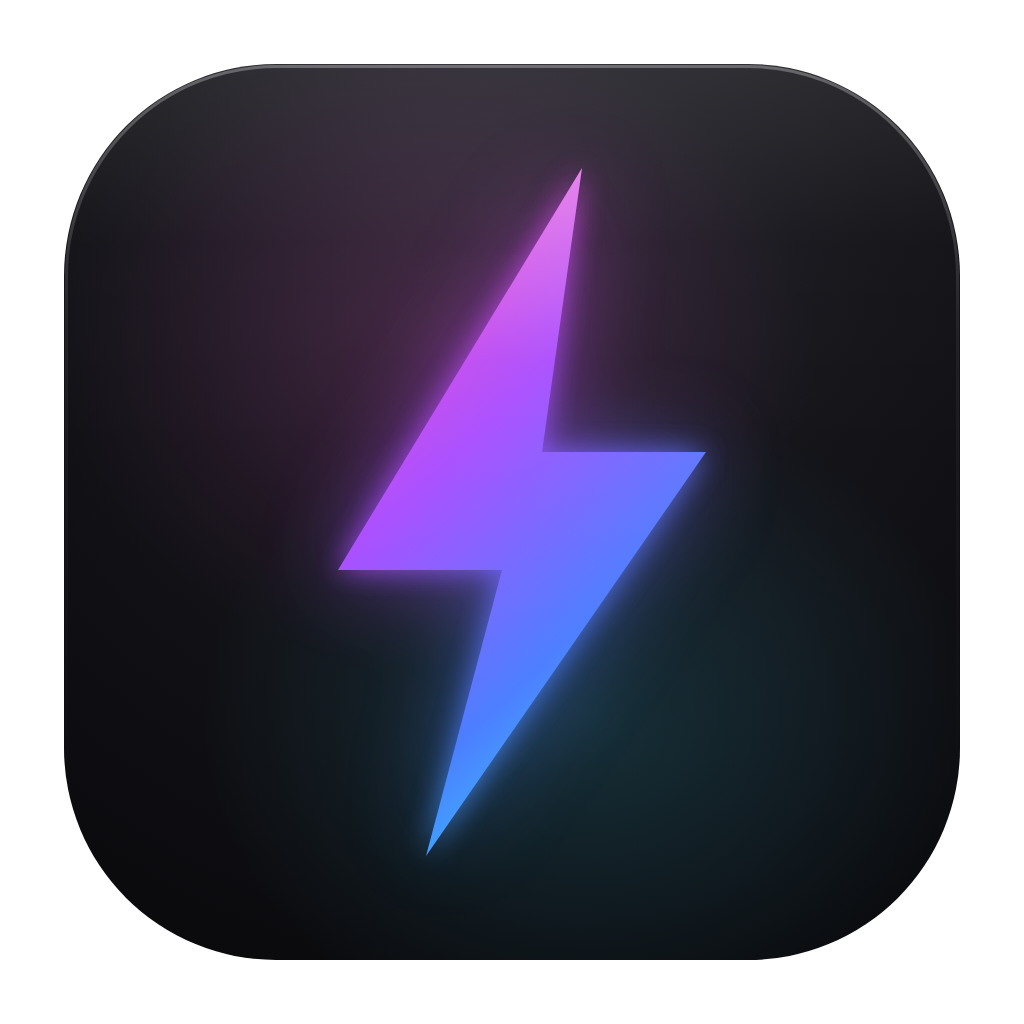
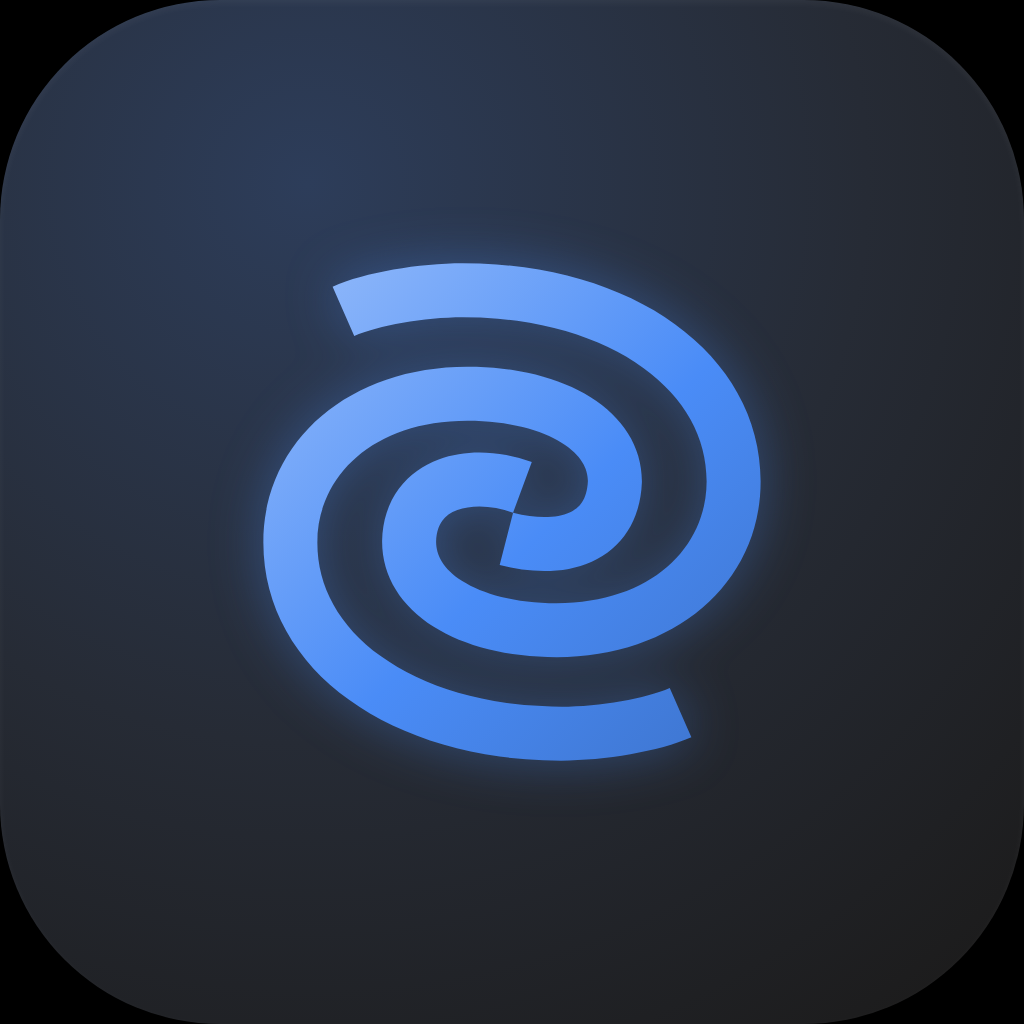
feat: 应用图标换为 galaxy 螺旋并跟随强调色，外观选项精简
- 应用图标由闪电重绘为 galaxy 螺旋（深色强调色淡染圆角底 + 强调色渐变），
  CDP 渲染 SVG 预生成 6 张强调色变体（blue/green/purple/orange/red/cyan）
- 主进程新增 setAppIcon：启动读持久化 accent、store:save 检测变化即对全部窗口
  setIcon，任务栏/窗口图标跟随强调色；打包经 extraResources 携带图标集
- 应用内 logo（设置页关于、关于弹窗入口）改为 .app-logo-dyn 动态渲染，
  颜色随 var(--accent) 变化，不再引用静态 icon.png
- 外观设置仅保留 Light / Dark / System 三项，旧主题值自动归一为 Dark

diff --git a/src/utils/themeUtil.js b/src/utils/themeUtil.js
@@ -5,18 +5,12 @@
 import { normalizePresets } from './headerPresets.js';
 import { normalizeParamPresets } from './paramPresets.js';
 
-/* IDEA 预置主题：Islands 系列 + 经典系列，dark 标记用于明暗图标；
+/* 预置主题仅保留明暗模式三项（其余主题选项已移除，旧值由 normalizeSettings 归一为 dark）；
    system 不绑定具体配色，由系统偏好解析成 dark / light（见 resolveTheme） */
 export const THEMES = [
-  { value: 'system', label: '跟随系统', dark: null },
-  { value: 'islands-dark', label: 'Islands Dark', dark: true },
-  { value: 'islands-light', label: 'Islands Light', dark: false },
-  { value: 'islands-darcula', label: 'Islands Darcula', dark: true },
-  { value: 'high-contrast', label: 'High Contrast', dark: true },
-  { value: 'dark', label: 'Dark', dark: true },
   { value: 'light', label: 'Light', dark: false },
-  { value: 'light-header', label: 'Light with Light Header', dark: false },
-  { value: 'darcula', label: 'Darcula', dark: true }
+  { value: 'dark', label: 'Dark', dark: true },
+  { value: 'system', label: 'System', dark: null }
 ];
 
 /** 系统是否偏好深色；环境不支持 matchMedia 时按深色处理（本产品的默认观感） */

diff --git a/src/components/SettingsPage.jsx b/src/components/SettingsPage.jsx
@@ -287,7 +287,7 @@ export default function SettingsPage({ settings, onChange, onBackup, onRestore, 
             <div className="sp-section-right">
               <div className="sp-item">
                 <div className="sp-about">
-                  <img className="sp-about-logo" src="./icon.png" alt="" />
+                  <span className="sp-about-logo app-logo-dyn"><JbIcon name="galaxy" size={26} /></span>
                   <div>
                     <div className="sp-about-name">ReqMock <span className="sp-about-ver">v{typeof __APP_VERSION__ !== 'undefined' ? __APP_VERSION__ : 'dev'}</span></div>
                     <div className="sp-about-desc">API 调试客户端 + Mock 服务桌面工具</div>

diff --git a/src/components/Modals.jsx b/src/components/Modals.jsx
@@ -462,7 +462,7 @@ export function SettingsModal({ settings, onChange, onBackup, onRestore, onCheck
             {tab === 'about' && (
               <>
                 <div className="about-block-v2">
-                  <img className="about-logo" src="./icon.png" alt="" />
+                  <span className="about-logo app-logo-dyn"><JbIcon name="galaxy" size={22} /></span>
                   <div className="about-meta">
                     <div className="about-name">ReqMock <span className="about-version">v{typeof __APP_VERSION__ !== 'undefined' ? __APP_VERSION__ : 'dev'}</span></div>
                     <div className="about-desc">API 调试客户端 + Mock 服务桌面工具</div>

diff --git a/src/styles.css b/src/styles.css
@@ -5991,6 +5991,13 @@ body.resizing { user-select: none; cursor: col-resize; }
 
 .about-logo { width: 34px; height: 34px; border-radius: var(--radius-m); flex-shrink: 0; }
 
+/* 应用 logo 动态渲染（galaxy 螺旋）：颜色跟随强调色，底色为强调色淡混 */
+.app-logo-dyn {
+  display: inline-flex; align-items: center; justify-content: center;
+  color: var(--accent);
+  background: color-mix(in srgb, var(--accent) 14%, transparent);
+}
+
 
 
 .about-name { font-size: 15px; font-weight: 600; }
